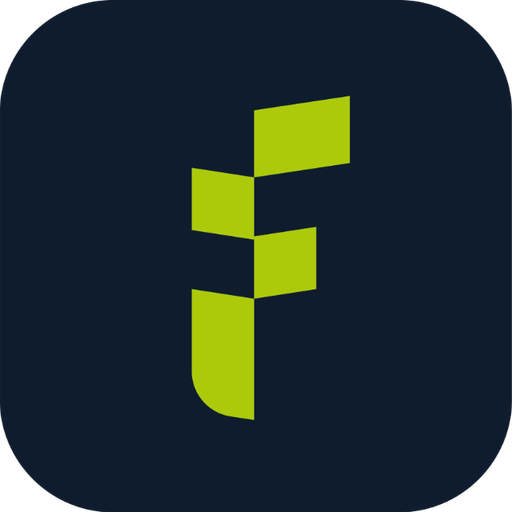
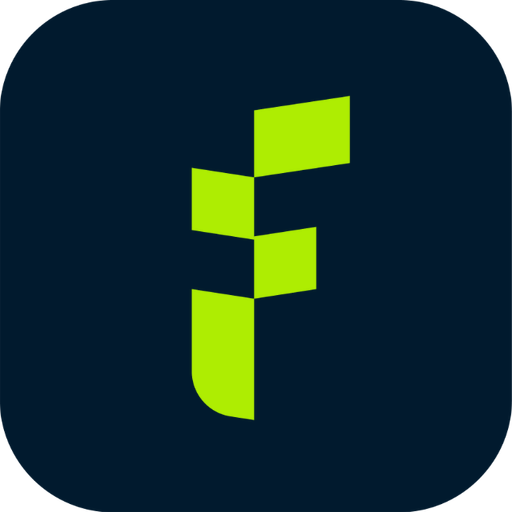
Apply designer-approved palette AEED02 011A2E EEF7FF

Changed region(s): [[0.375, 0.1875, 0.6875, 0.8438]]

diff --git a/app/page.tsx b/app/page.tsx
@@ -532,13 +532,13 @@ export default function HomePage() {
         <div className="mx-auto w-full min-w-0 max-w-7xl px-4 sm:px-6 lg:px-8">
           <div className="grid min-w-0 gap-10 sm:gap-12 lg:grid-cols-[0.82fr_1.18fr] lg:gap-20">
             <div className="min-w-0 lg:sticky lg:top-28 lg:self-start">
-              <p className="text-xs font-black uppercase tracking-[0.18em] text-[#0E1C2D]">
+              <p className="text-xs font-black uppercase tracking-[0.18em] text-[#011A2E]">
                 {
                   t.processBadge
                 }
               </p>
 
-              <h2 className="mt-4 max-w-xl text-[2rem] font-semibold leading-[1.08] tracking-[-0.04em] text-[#0E1C2D] sm:mt-5 sm:text-4xl lg:text-[3.25rem]">
+              <h2 className="mt-4 max-w-xl text-[2rem] font-semibold leading-[1.08] tracking-[-0.04em] text-[#011A2E] sm:mt-5 sm:text-4xl lg:text-[3.25rem]">
                 {
                   t.processTitle
                 }
@@ -552,7 +552,7 @@ export default function HomePage() {
 
               <Link
                 href="/demande/etape-1"
-                className="mt-6 inline-flex min-h-11 items-center gap-2 text-sm font-black text-[#0E1C2D] transition-all hover:gap-3 sm:mt-7"
+                className="mt-6 inline-flex min-h-11 items-center gap-2 text-sm font-black text-[#011A2E] transition-all hover:gap-3 sm:mt-7"
               >
                 {
                   t.request
@@ -580,7 +580,7 @@ export default function HomePage() {
                     >
                       <div className="grid min-w-0 gap-4 sm:grid-cols-[72px_1fr] sm:gap-7">
                         <div>
-                          <div className="flex h-14 w-14 items-center justify-center rounded-full bg-[#EEF6FD] text-[#0E1C2D] transition duration-300 group-hover:bg-[#0E1C2D] group-hover:text-white">
+                          <div className="flex h-14 w-14 items-center justify-center rounded-full bg-[#EEF7FF] text-[#011A2E] transition duration-300 group-hover:bg-[#011A2E] group-hover:text-white">
                             <Icon className="h-5 w-5" />
                           </div>
                         </div>
@@ -610,7 +610,7 @@ export default function HomePage() {
                             </p>
                           </div>
 
-                          <div className="hidden shrink-0 items-center text-slate-300 transition duration-300 group-hover:translate-x-1 group-hover:text-[#0E1C2D] sm:flex">
+                          <div className="hidden shrink-0 items-center text-slate-300 transition duration-300 group-hover:translate-x-1 group-hover:text-[#011A2E] sm:flex">
                             <ArrowRight className="h-5 w-5" />
                           </div>
                         </div>
@@ -630,18 +630,18 @@ export default function HomePage() {
 
       <section
         id="suivi"
-        className="bg-[#EEF6FD] py-14 sm:py-20 lg:py-28"
+        className="bg-[#EEF7FF] py-14 sm:py-20 lg:py-28"
       >
         <div className="mx-auto w-full min-w-0 max-w-7xl px-4 sm:px-6 lg:px-8">
           <div className="grid min-w-0 gap-10 sm:gap-14 lg:grid-cols-[0.95fr_1.05fr] lg:items-start lg:gap-20">
             <div>
-              <p className="text-xs font-black uppercase tracking-[0.18em] text-[#0E1C2D]">
+              <p className="text-xs font-black uppercase tracking-[0.18em] text-[#011A2E]">
                 {
                   t.trackingBadge
                 }
               </p>
 
-              <h2 className="mt-4 max-w-xl text-[2rem] font-semibold leading-[1.08] tracking-[-0.04em] text-[#0E1C2D] sm:mt-5 sm:text-4xl lg:text-[3.2rem]">
+              <h2 className="mt-4 max-w-xl text-[2rem] font-semibold leading-[1.08] tracking-[-0.04em] text-[#011A2E] sm:mt-5 sm:text-4xl lg:text-[3.2rem]">
                 {
                   t.trackingTitle
                 }
@@ -660,12 +660,12 @@ export default function HomePage() {
 
             <div
               id="assistance"
-              className="relative min-w-0 overflow-hidden rounded-[1.5rem] bg-[#0E1C2D] px-5 py-7 text-white sm:rounded-[2rem] sm:px-8 sm:py-10 lg:px-10 lg:py-12"
+              className="relative min-w-0 overflow-hidden rounded-[1.5rem] bg-[#011A2E] px-5 py-7 text-white sm:rounded-[2rem] sm:px-8 sm:py-10 lg:px-10 lg:py-12"
             >
-              <div className="pointer-events-none absolute -right-20 -top-20 h-64 w-64 rounded-full bg-[#ADCA0A]/10" />
+              <div className="pointer-events-none absolute -right-20 -top-20 h-64 w-64 rounded-full bg-[#AEED02]/10" />
 
               <div className="relative z-10">
-                <p className="text-xs font-black uppercase tracking-[0.18em] text-[#ADCA0A]">
+                <p className="text-xs font-black uppercase tracking-[0.18em] text-[#AEED02]">
                   {
                     t.supportBadge
                   }
@@ -690,7 +690,7 @@ export default function HomePage() {
                     )}`}
                     target="_blank"
                     rel="noopener noreferrer"
-                    className="mt-7 inline-flex min-h-12 w-full items-center justify-center gap-2 rounded-xl bg-[#ADCA0A] px-5 text-center text-sm font-black text-[#0E1C2D] transition hover:-translate-y-0.5 hover:bg-[#ADCA0A] sm:mt-8 sm:w-auto sm:px-6"
+                    className="mt-7 inline-flex min-h-12 w-full items-center justify-center gap-2 rounded-xl bg-[#AEED02] px-5 text-center text-sm font-black text-[#011A2E] transition hover:-translate-y-0.5 hover:bg-[#AEED02] sm:mt-8 sm:w-auto sm:px-6"
                   >
                     <MessageCircle className="h-5 w-5" />
 
@@ -728,7 +728,7 @@ export default function HomePage() {
                     }
                     className="group min-w-0"
                   >
-                    <div className="flex h-12 w-12 items-center justify-center rounded-full bg-[#EEF6FD] text-[#0E1C2D] transition duration-300 group-hover:bg-[#0E1C2D] group-hover:text-white">
+                    <div className="flex h-12 w-12 items-center justify-center rounded-full bg-[#EEF7FF] text-[#011A2E] transition duration-300 group-hover:bg-[#011A2E] group-hover:text-white">
                       <Icon className="h-5 w-5" />
                     </div>
 
@@ -755,7 +755,7 @@ export default function HomePage() {
           FOOTER
       ============================================ */}
 
-      <footer className="bg-[#0E1C2D] text-white">
+      <footer className="bg-[#011A2E] text-white">
         <div className="mx-auto w-full min-w-0 max-w-7xl px-4 py-10 sm:px-6 sm:py-12 lg:px-8 lg:py-14">
           <div className="grid min-w-0 gap-9 sm:gap-10 md:grid-cols-2 lg:grid-cols-[1.25fr_0.75fr_0.75fr_0.75fr]">
             <div className="max-w-sm">
@@ -855,7 +855,7 @@ export default function HomePage() {
                     href={`https://wa.me/${publicWhatsappNumber}`}
                     target="_blank"
                     rel="noopener noreferrer"
-                    className="inline-flex items-center gap-2 pt-2 font-semibold text-[#ADCA0A] transition hover:text-[#ADCA0A]"
+                    className="inline-flex items-center gap-2 pt-2 font-semibold text-[#AEED02] transition hover:text-[#AEED02]"
                   >
                     <MessageCircle className="h-4 w-4" />
 
@@ -879,7 +879,7 @@ export default function HomePage() {
             </p>
 
             <div className="flex items-center gap-2">
-              <span className="h-2 w-2 rounded-full bg-[#ADCA0A]" />
+              <span className="h-2 w-2 rounded-full bg-[#AEED02]" />
 
               <span>
                 FR · EN · TR
@@ -899,7 +899,7 @@ export default function HomePage() {
           target="_blank"
           rel="noopener noreferrer"
           aria-label="WhatsApp"
-          className="fixed bottom-4 right-4 z-50 flex h-12 w-12 items-center justify-center rounded-full bg-[#ADCA0A] text-[#0E1C2D] shadow-xl shadow-black/10 transition hover:-translate-y-1 hover:bg-[#ADCA0A] sm:bottom-6 sm:right-6 sm:h-14 sm:w-14"
+          className="fixed bottom-4 right-4 z-50 flex h-12 w-12 items-center justify-center rounded-full bg-[#AEED02] text-[#011A2E] shadow-xl shadow-black/10 transition hover:-translate-y-1 hover:bg-[#AEED02] sm:bottom-6 sm:right-6 sm:h-14 sm:w-14"
         >
           <MessageCircle className="h-6 w-6" />
         </a>

diff --git a/components/home/TrackRequestForm.tsx b/components/home/TrackRequestForm.tsx
@@ -120,7 +120,7 @@ export default function TrackRequestForm() {
             }}
             placeholder="IFS-260808-DF56"
             autoComplete="off"
-            className="h-12 w-full rounded-xl border border-slate-200 bg-white pl-11 pr-4 text-sm font-semibold uppercase text-[#0E1C2D] outline-none transition placeholder:text-slate-400 hover:border-slate-300 focus:border-[#0E1C2D] focus:ring-4 focus:ring-[#0E1C2D]/10"
+            className="h-12 w-full rounded-xl border border-slate-200 bg-white pl-11 pr-4 text-sm font-semibold uppercase text-[#011A2E] outline-none transition placeholder:text-slate-400 hover:border-slate-300 focus:border-[#011A2E] focus:ring-4 focus:ring-[#011A2E]/10"
           />
         </div>
       </div>
@@ -133,7 +133,7 @@ export default function TrackRequestForm() {
           className="text-sm font-bold text-slate-700"
         >{t.phone}</label>
 
-        <div className="mt-3 flex overflow-hidden rounded-xl border border-slate-200 bg-white transition hover:border-slate-300 focus-within:border-[#0E1C2D] focus-within:ring-4 focus-within:ring-[#0E1C2D]/10">
+        <div className="mt-3 flex overflow-hidden rounded-xl border border-slate-200 bg-white transition hover:border-slate-300 focus-within:border-[#011A2E] focus-within:ring-4 focus-within:ring-[#011A2E]/10">
           <select
             value={
               whatsappCountryCode
@@ -146,7 +146,7 @@ export default function TrackRequestForm() {
               )
             }
             aria-label={t.dial}
-            className="max-w-[180px] border-r border-slate-200 bg-[#EEF6FD] px-3 text-sm font-semibold text-slate-700 outline-none"
+            className="max-w-[180px] border-r border-slate-200 bg-[#EEF7FF] px-3 text-sm font-semibold text-slate-700 outline-none"
           >
             {countryCodes.map(
               (
@@ -186,7 +186,7 @@ export default function TrackRequestForm() {
             }}
             placeholder="5XXXXXXXXX"
             autoComplete="tel"
-            className="h-12 min-w-0 flex-1 bg-white px-4 text-sm text-[#0E1C2D] outline-none placeholder:text-slate-400"
+            className="h-12 min-w-0 flex-1 bg-white px-4 text-sm text-[#011A2E] outline-none placeholder:text-slate-400"
           />
         </div>
       </div>
@@ -206,7 +206,7 @@ export default function TrackRequestForm() {
 
       <button
         type="submit"
-        className="mt-4 inline-flex min-h-12 w-full items-center justify-center gap-2 rounded-xl bg-[#ADCA0A] px-5 text-sm font-black text-[#0E1C2D] transition hover:-translate-y-0.5 hover:bg-[#ADCA0A]"
+        className="mt-4 inline-flex min-h-12 w-full items-center justify-center gap-2 rounded-xl bg-[#AEED02] px-5 text-sm font-black text-[#011A2E] transition hover:-translate-y-0.5 hover:bg-[#AEED02]"
       >{t.submit}<ArrowRight className="h-4 w-4" />
       </button>
     </form>

diff --git a/components/home/HomeHeader.tsx b/components/home/HomeHeader.tsx
@@ -188,7 +188,7 @@ export default function HomeHeader() {
 
                       language ===
                       item
-                        ? "bg-white text-[#0E1C2D] shadow-sm"
+                        ? "bg-white text-[#011A2E] shadow-sm"
                         : "text-white/65 hover:text-white",
                     ].join(
                       " ",
@@ -204,7 +204,7 @@ export default function HomeHeader() {
 
             <Link
               href="/demande/etape-1"
-              className="inline-flex min-h-12 whitespace-nowrap items-center justify-center rounded-xl bg-[#ADCA0A] px-6 text-sm font-black text-[#0E1C2D] shadow-lg shadow-black/10 transition hover:-translate-y-0.5 hover:bg-[#ADCA0A]"
+              className="inline-flex min-h-12 whitespace-nowrap items-center justify-center rounded-xl bg-[#AEED02] px-6 text-sm font-black text-[#011A2E] shadow-lg shadow-black/10 transition hover:-translate-y-0.5 hover:bg-[#AEED02]"
             >
               {
                 t.cta
@@ -284,7 +284,7 @@ export default function HomeHeader() {
 
       {menuOpen && (
         <div className="mx-auto max-w-[1600px] px-4 pt-2 sm:px-6 lg:px-8 xl:hidden">
-          <div className="overflow-hidden rounded-[1.5rem] border border-white/15 bg-[#0E1C2D]/95 p-4 shadow-2xl shadow-black/20 backdrop-blur-xl">
+          <div className="overflow-hidden rounded-[1.5rem] border border-white/15 bg-[#011A2E]/95 p-4 shadow-2xl shadow-black/20 backdrop-blur-xl">
             <nav className="flex flex-col">
               <MobileLink
                 href="/"
@@ -355,7 +355,7 @@ export default function HomeHeader() {
                     false,
                   )
                 }
-                className="inline-flex min-h-10 items-center justify-center rounded-xl bg-[#ADCA0A] px-4 text-xs font-black text-[#0E1C2D]"
+                className="inline-flex min-h-10 items-center justify-center rounded-xl bg-[#AEED02] px-4 text-xs font-black text-[#011A2E]"
               >
                 {
                   t.cta
@@ -384,7 +384,7 @@ function NavLink({
       href={
         href
       }
-      className="relative whitespace-nowrap py-2 text-sm font-semibold text-white/85 transition hover:text-white after:absolute after:bottom-0 after:left-0 after:h-[2px] after:w-0 after:rounded-full after:bg-[#ADCA0A] after:transition-all hover:after:w-full"
+      className="relative whitespace-nowrap py-2 text-sm font-semibold text-white/85 transition hover:text-white after:absolute after:bottom-0 after:left-0 after:h-[2px] after:w-0 after:rounded-full after:bg-[#AEED02] after:transition-all hover:after:w-full"
     >
       {
         children

diff --git a/components/home/HomeHero.tsx b/components/home/HomeHero.tsx
@@ -137,7 +137,7 @@ export default function HomeHero() {
 
         {/* DEGRADE GAUCHE UNIQUEMENT */}
 
-        <div className="absolute inset-0 bg-gradient-to-r from-[#0E1C2D]/95 via-[#0E1C2D]/65 to-[#0E1C2D]/25 lg:from-[#0E1C2D]/90 lg:via-[#0E1C2D]/50 lg:via-45% lg:to-transparent" />
+        <div className="absolute inset-0 bg-gradient-to-r from-[#011A2E]/95 via-[#011A2E]/65 to-[#011A2E]/25 lg:from-[#011A2E]/90 lg:via-[#011A2E]/50 lg:via-45% lg:to-transparent" />
 
         {/* PETIT DEGRADE HAUT/BAS */}
 
@@ -150,7 +150,7 @@ export default function HomeHero() {
             {/* BADGE */}
 
             <div className="inline-flex items-center gap-2 rounded-full border border-white/15 bg-white/10 px-3.5 py-2 text-[10px] font-bold uppercase tracking-[0.06em] text-white/85 backdrop-blur-md sm:text-xs">
-              <ShieldCheck className="h-4 w-4 shrink-0 text-[#ADCA0A]" />
+              <ShieldCheck className="h-4 w-4 shrink-0 text-[#AEED02]" />
 
               {
                 t.badge
@@ -166,7 +166,7 @@ export default function HomeHero() {
     {t.title2}
   </span>
 
-  <span className="mt-3 block max-w-[560px] text-[0.78em] font-semibold leading-[1.08] tracking-[-0.025em] text-[#ADCA0A]">
+  <span className="mt-3 block max-w-[560px] text-[0.78em] font-semibold leading-[1.08] tracking-[-0.025em] text-[#AEED02]">
     {t.title3}
   </span>
 </h1>
@@ -184,7 +184,7 @@ export default function HomeHero() {
             <div className="mt-8 flex flex-col gap-3 sm:flex-row">
               <Link
                 href="/demande/etape-1"
-                className="inline-flex min-h-12 items-center justify-center gap-2 rounded-xl bg-[#ADCA0A] px-6 text-sm font-black text-[#0E1C2D] shadow-lg shadow-black/10 transition hover:-translate-y-0.5 hover:bg-[#ADCA0A] sm:text-base"
+                className="inline-flex min-h-12 items-center justify-center gap-2 rounded-xl bg-[#AEED02] px-6 text-sm font-black text-[#011A2E] shadow-lg shadow-black/10 transition hover:-translate-y-0.5 hover:bg-[#AEED02] sm:text-base"
               >
                 {
                   t.primary

diff --git a/app/layout.tsx b/app/layout.tsx
@@ -7,8 +7,8 @@ export const metadata: Metadata = {
   title: "IF Sigorta",
   description: "Demandez votre assurance en Turquie et suivez votre dossier avec IF Sigorta.",
   icons: {
-    icon: "/icon.png?v=3",
-    apple: "/apple-icon.png?v=3",
+    icon: "/icon.png?v=4",
+    apple: "/apple-icon.png?v=4",
   },
 };
 
